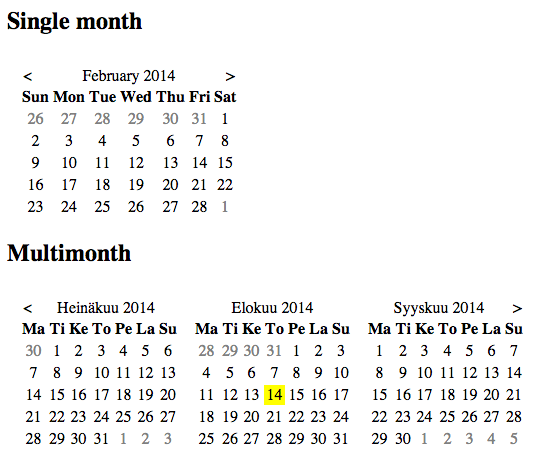
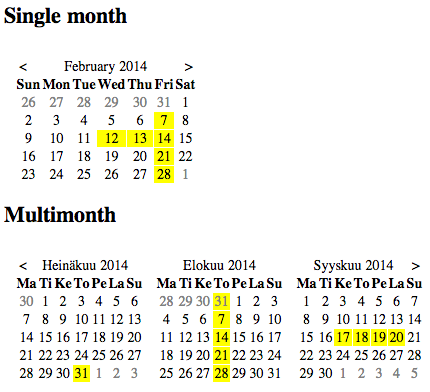
Added selection of dates by holding mouse down

diff --git a/dist/angular-simple-native-datepicker.min.js b/dist/angular-simple-native-datepicker.min.js
@@ -1,1 +1,1 @@
-angular.module("angular-simple-native-datepicker",[]).service("CollectionUtil",function(){"use strict";this.filter=function(e,t){for(var n=[],a=0;a<e.length;a++)t(e[a])&&n.push(e[a]);return n},this.map=function(e,t){for(var n=[],a=0;a<e.length;a++)n.push(t(e[a]));return n},this.foreach=function(e,t){for(var n=0;n<e.length;n++)t(e[n])},this.toSubArrays=function(e,t){for(var n=[],a=0;a<e.length;a+=t)n.push(e.slice(a,a+t));return n},this.toObjects=function(e,t){return this.map(e,function(e){var n={};return n[t]=e,n})},this.contains=function(e,t,n){for(var a=e.length-1;a>=0;a--)if(n(e[a],t))return!0;return!1},this.remove=function(e,t,n){for(var a=e.length-1;a>=0;a--)n(e[a],t)&&e.splice(a,a+1);return!1}}).service("CalendarUtil",["CollectionUtil",function(e){"use strict";var t=function(e){var t=new Date(e.getTime());return t.setDate(t.getDate()),t},n=function(e,t){return e.setDate(e.getDate()+t),e};this.currentYearMonth=function(){var e=new Date;return{year:e.getFullYear(),month:e.getMonth()}},this.rollYearMonth=function(e,t){var n=new Date(e.year,e.month,1);return n.setMonth(n.getMonth()+t),e.year=n.getFullYear(),e.month=n.getMonth(),e};var a=function(e){if(0>e||e>6)throw Error("illegal day number "+e+", expecting a day between 0 and 6")},r=function(e,r,o){a(r);for(var i=(e.getDay(),t(e));i.getDay()!=r;)n(i,o);return i};this.rollMutableDate=n,this.reverseToDayNumber=function(e,t){return r(e,t,-1)},this.forwardToDayNumber=function(e,t){return r(e,t,1)},this.dateRangeBetween=function(e,n){if(e.getTime()>n.getTime())throw"start after end";for(var a=[],r=t(e);r.getTime()<=n.getTime();)a.push(t(r)),this.rollMutableDate(r,1);return a};var o=function(e){a(e);var t=e+6;return t>6?t-7:t};this.equalYearMonth=function(e,t){return e.getFullYear()===t.getFullYear()&&e.getMonth()===t.getMonth()},this.equalDateWithoutTime=function(e,t){return e.getFullYear()===t.getFullYear()&&e.getMonth()===t.getMonth()&&e.getDate()===t.getDate()},this.getMonth=function(t,n,a,r){var i=this.reverseToDayNumber(new Date(t,n,1),a),u=this.rollMutableDate(new Date(t,n+1,1),-1),s=this.forwardToDayNumber(u,o(a)),h=e.toObjects(this.dateRangeBetween(i,s),"date"),l=this,c=e.filter(h,function(t){return e.contains(r,t.date,l.equalDateWithoutTime)});e.foreach(c,function(e){e.selected=!0});var d=new Date(t,n,1),f=e.filter(h,function(e){return!l.equalYearMonth(d,e.date)});return e.foreach(f,function(e){e.outOfMonth=!0}),{weeks:e.toObjects(e.toSubArrays(h,7),"days")}}}]).directive("simpleNativeDatepicker",["CalendarUtil","CollectionUtil",function(e,t){"use strict";return{restrict:"A",template:'<div class="simpleNativeDatepicker"><span ng-show="showPrevMonthBtn" ng-click="moveMonth(-1)" class="prevMonthBtn">&lt;</span><span class="header">{{monthStr}} {{year}}</span><span ng-show="showNextMonthBtn" ng-click="moveMonth(1)" class="nextMonthBtn">&gt;</span><table><thead><tr><th ng-repeat="dayName in orderedDayNames">{{dayName}}</th></tr></thead><tbody><tr ng-repeat="week in calMonth.weeks"><td ng-class="{outOfMonth: day.outOfMonth, selected: day.selected}" ng-click="selectDate(day)" ng-repeat="day in week.days">{{day.date.getDate()}}</td></tr></tbody></table></div>',scope:{year:"=",month:"=",versionNumber:"=",selectedDates:"=",options:"="},link:function(n){var a={firstDayOfWeek:1,dayNames:["Su","Ma","Ti","Ke","To","Pe","La"],monthNames:["Tammikuu","Helmikuu","Maaliskuu","Huhtikuu","Toukokuu","Kesäkuu","Heinäkuu","Elokuu","Syyskuu","Lokakuu","Marraskuu","Joulukuu"],daySelected:function(e){console.log("selected",e)},dayUnSelected:function(e){console.log("unselected",e)},showPrevMonthBtn:!0,showNextMonthBtn:!0,moveMonth:function(t){var a={year:n.year,month:n.month};e.rollYearMonth(a,t),n.year=a.year,n.month=a.month,n.versionNumber+=1}},r=angular.extend(a,n.options);n.orderedDayNames=r.dayNames.slice(r.firstDayOfWeek).concat(r.dayNames.slice(0,r.firstDayOfWeek)),n.selectDate=function(a){t.contains(n.selectedDates,a.date,e.equalDateWithoutTime)?(t.remove(n.selectedDates,a.date,e.equalDateWithoutTime),r.dayUnSelected(a.date)):(n.selectedDates.push(a.date),r.daySelected(a.date)),n.versionNumber+=1},n.moveMonth=r.moveMonth,n.showPrevMonthBtn=r.showPrevMonthBtn,n.showNextMonthBtn=r.showNextMonthBtn;var o=function(t,a,o){n.calMonth=[],n.calMonth=e.getMonth(t,a,r.firstDayOfWeek,o),n.monthStr=r.monthNames[a]};n.$watch("versionNumber",function(e){e&&o(n.year,n.month,n.selectedDates)})}}}]);
+angular.module("angular-simple-native-datepicker",[]).service("CollectionUtil",function(){"use strict";this.filter=function(e,t){for(var n=[],o=0;o<e.length;o++)t(e[o])&&n.push(e[o]);return n},this.map=function(e,t){for(var n=[],o=0;o<e.length;o++)n.push(t(e[o]));return n},this.foreach=function(e,t){for(var n=0;n<e.length;n++)t(e[n])},this.toSubArrays=function(e,t){for(var n=[],o=0;o<e.length;o+=t)n.push(e.slice(o,o+t));return n},this.toObjects=function(e,t){return this.map(e,function(e){var n={};return n[t]=e,n})},this.contains=function(e,t,n){for(var o=e.length-1;o>=0;o--)if(n(e[o],t))return!0;return!1},this.remove=function(e,t,n){for(var o=e.length-1;o>=0;o--)n(e[o],t)&&e.splice(o,o+1);return!1}}).service("CalendarUtil",["CollectionUtil",function(e){"use strict";var t=function(e){var t=new Date(e.getTime());return t.setDate(t.getDate()),t},n=function(e,t){return e.setDate(e.getDate()+t),e};this.currentYearMonth=function(){var e=new Date;return{year:e.getFullYear(),month:e.getMonth()}},this.rollYearMonth=function(e,t){var n=new Date(e.year,e.month,1);return n.setMonth(n.getMonth()+t),e.year=n.getFullYear(),e.month=n.getMonth(),e};var o=function(e){if(0>e||e>6)throw Error("illegal day number "+e+", expecting a day between 0 and 6")},a=function(e,a,r){o(a);for(var u=(e.getDay(),t(e));u.getDay()!=a;)n(u,r);return u};this.rollMutableDate=n,this.reverseToDayNumber=function(e,t){return a(e,t,-1)},this.forwardToDayNumber=function(e,t){return a(e,t,1)},this.dateRangeBetween=function(e,n){if(e.getTime()>n.getTime())throw"start after end";for(var o=[],a=t(e);a.getTime()<=n.getTime();)o.push(t(a)),this.rollMutableDate(a,1);return o};var r=function(e){o(e);var t=e+6;return t>6?t-7:t};this.equalYearMonth=function(e,t){return e.getFullYear()===t.getFullYear()&&e.getMonth()===t.getMonth()},this.equalDateWithoutTime=function(e,t){return e.getFullYear()===t.getFullYear()&&e.getMonth()===t.getMonth()&&e.getDate()===t.getDate()},this.getMonth=function(t,n,o,a){var u=this.reverseToDayNumber(new Date(t,n,1),o),s=this.rollMutableDate(new Date(t,n+1,1),-1),i=this.forwardToDayNumber(s,r(o)),h=e.toObjects(this.dateRangeBetween(u,i),"date"),l=this,c=e.filter(h,function(t){return e.contains(a,t.date,l.equalDateWithoutTime)});e.foreach(c,function(e){e.selected=!0});var f=new Date(t,n,1),d=e.filter(h,function(e){return!l.equalYearMonth(f,e.date)});return e.foreach(d,function(e){e.outOfMonth=!0}),{weeks:e.toObjects(e.toSubArrays(h,7),"days")}}}]).directive("simpleNativeDatepicker",["CalendarUtil","CollectionUtil",function(e,t){"use strict";return{restrict:"A",template:'<div class="simpleNativeDatepicker" ng-mouseleave="onMouseLeave()" ng-mouseup="onMouseUp()"><span ng-show="showPrevMonthBtn" ng-click="moveMonth(-1)" class="prevMonthBtn">&lt;</span><span class="header">{{monthStr}} {{year}}</span><span ng-show="showNextMonthBtn" ng-click="moveMonth(1)" class="nextMonthBtn">&gt;</span><table><thead><tr><th ng-repeat="dayName in orderedDayNames">{{dayName}}</th></tr></thead><tbody><tr ng-repeat="week in calMonth.weeks"><td ng-class="{outOfMonth: day.outOfMonth, selected: day.selected}" ng-mousedown="onMouseDown(day)" ng-mouseenter="onMouseEnter(day)" ng-repeat="day in week.days">{{day.date.getDate()}}</td></tr></tbody></table></div>',scope:{year:"=",month:"=",versionNumber:"=",selectedDates:"=",options:"="},link:function(n){var o={firstDayOfWeek:1,dayNames:["Su","Ma","Ti","Ke","To","Pe","La"],monthNames:["Tammikuu","Helmikuu","Maaliskuu","Huhtikuu","Toukokuu","Kesäkuu","Heinäkuu","Elokuu","Syyskuu","Lokakuu","Marraskuu","Joulukuu"],daySelected:function(e){console.log("selected",e)},dayUnSelected:function(e){console.log("unselected",e)},showPrevMonthBtn:!0,showNextMonthBtn:!0,moveMonth:function(t){var o={year:n.year,month:n.month};e.rollYearMonth(o,t),n.year=o.year,n.month=o.month,n.versionNumber+=1}},a=angular.extend(o,n.options);n.orderedDayNames=a.dayNames.slice(a.firstDayOfWeek).concat(a.dayNames.slice(0,a.firstDayOfWeek)),n.mouseDown=!1,n.onMouseLeave=function(){n.mouseDown=!1,n.versionNumber+=1},n.onMouseUp=function(){n.mouseDown=!1,n.versionNumber+=1},n.onMouseDown=function(e){n.mouseDown=!0,r(e)},n.onMouseEnter=function(e){n.mouseDown&&r(e)};var r=function(o){t.contains(n.selectedDates,o.date,e.equalDateWithoutTime)?(t.remove(n.selectedDates,o.date,e.equalDateWithoutTime),a.dayUnSelected(o.date)):(n.selectedDates.push(o.date),a.daySelected(o.date))};n.moveMonth=a.moveMonth,n.showPrevMonthBtn=a.showPrevMonthBtn,n.showNextMonthBtn=a.showNextMonthBtn;var u=function(t,o,r){n.calMonth=[],n.calMonth=e.getMonth(t,o,a.firstDayOfWeek,r),n.monthStr=a.monthNames[o]};n.$watch("versionNumber",function(e){e&&u(n.year,n.month,n.selectedDates)})}}}]);

diff --git a/dist/angular-simple-native-datepicker.annotated.js b/dist/angular-simple-native-datepicker.annotated.js
@@ -153,7 +153,7 @@ angular.module('angular-simple-native-datepicker', []).service('CollectionUtil',
     'use strict';
     return {
       restrict: 'A',
-      template: '<div class="simpleNativeDatepicker">' + '<span ng-show="showPrevMonthBtn" ng-click="moveMonth(-1)" class="prevMonthBtn">&lt;</span>' + '<span class="header">{{monthStr}} {{year}}</span>' + '<span ng-show="showNextMonthBtn" ng-click="moveMonth(1)" class="nextMonthBtn">&gt;</span>' + '<table>' + '<thead>' + '<tr>' + '<th ng-repeat="dayName in orderedDayNames">{{dayName}}</th>' + '</tr>' + '</thead>' + '<tbody>' + '<tr ng-repeat="week in calMonth.weeks">' + '<td ng-class="{outOfMonth: day.outOfMonth, selected: day.selected}" ng-click="selectDate(day)" ng-repeat="day in week.days">{{day.date.getDate()}}</td>' + '</tr>' + '</tbody>' + '</table>' + '</div>',
+      template: '<div class="simpleNativeDatepicker" ng-mouseleave="onMouseLeave()" ng-mouseup="onMouseUp()">' + '<span ng-show="showPrevMonthBtn" ng-click="moveMonth(-1)" class="prevMonthBtn">&lt;</span>' + '<span class="header">{{monthStr}} {{year}}</span>' + '<span ng-show="showNextMonthBtn" ng-click="moveMonth(1)" class="nextMonthBtn">&gt;</span>' + '<table>' + '<thead>' + '<tr>' + '<th ng-repeat="dayName in orderedDayNames">{{dayName}}</th>' + '</tr>' + '</thead>' + '<tbody>' + '<tr ng-repeat="week in calMonth.weeks">' + '<td ng-class="{outOfMonth: day.outOfMonth, selected: day.selected}" ng-mousedown="onMouseDown(day)" ng-mouseenter="onMouseEnter(day)" ng-repeat="day in week.days">{{day.date.getDate()}}</td>' + '</tr>' + '</tbody>' + '</table>' + '</div>',
       scope: {
         year: '=',
         month: '=',
@@ -208,7 +208,25 @@ angular.module('angular-simple-native-datepicker', []).service('CollectionUtil',
           };
         var options = angular.extend(defaultOptions, scope.options);
         scope.orderedDayNames = options.dayNames.slice(options.firstDayOfWeek).concat(options.dayNames.slice(0, options.firstDayOfWeek));
-        scope.selectDate = function (day) {
+        scope.mouseDown = false;
+        scope.onMouseLeave = function () {
+          scope.mouseDown = false;
+          scope.versionNumber += 1;  // refresh           
+        };
+        scope.onMouseUp = function () {
+          scope.mouseDown = false;
+          scope.versionNumber += 1;  // refresh
+        };
+        scope.onMouseDown = function (day) {
+          scope.mouseDown = true;
+          toggleDateSelection(day);
+        };
+        scope.onMouseEnter = function (day) {
+          if (scope.mouseDown) {
+            toggleDateSelection(day);
+          }
+        };
+        var toggleDateSelection = function (day) {
           if (cu.contains(scope.selectedDates, day.date, CalendarUtil.equalDateWithoutTime)) {
             cu.remove(scope.selectedDates, day.date, CalendarUtil.equalDateWithoutTime);
             options.dayUnSelected(day.date);
@@ -216,7 +234,6 @@ angular.module('angular-simple-native-datepicker', []).service('CollectionUtil',
             scope.selectedDates.push(day.date);
             options.daySelected(day.date);
           }
-          scope.versionNumber += 1;
         };
         scope.moveMonth = options.moveMonth;
         scope.showPrevMonthBtn = options.showPrevMonthBtn;

diff --git a/dist/angular-simple-native-datepicker.js b/dist/angular-simple-native-datepicker.js
@@ -182,7 +182,7 @@ angular.module('angular-simple-native-datepicker', [])
     return {
       restrict: 'A',
 
-      template: '<div class="simpleNativeDatepicker">' +
+      template: '<div class="simpleNativeDatepicker" ng-mouseleave="onMouseLeave()" ng-mouseup="onMouseUp()">' +
                     '<span ng-show="showPrevMonthBtn" ng-click="moveMonth(-1)" class="prevMonthBtn">&lt;</span>' +
                     '<span class="header">{{monthStr}} {{year}}</span>' +
                     '<span ng-show="showNextMonthBtn" ng-click="moveMonth(1)" class="nextMonthBtn">&gt;</span>' +
@@ -195,7 +195,7 @@ angular.module('angular-simple-native-datepicker', [])
 
                         '<tbody>' +
                             '<tr ng-repeat="week in calMonth.weeks">' +
-                                '<td ng-class="{outOfMonth: day.outOfMonth, selected: day.selected}" ng-click="selectDate(day)" ng-repeat="day in week.days">{{day.date.getDate()}}</td>' +
+                                '<td ng-class="{outOfMonth: day.outOfMonth, selected: day.selected}" ng-mousedown="onMouseDown(day)" ng-mouseenter="onMouseEnter(day)" ng-repeat="day in week.days">{{day.date.getDate()}}</td>' +
                             '</tr>' +
                         '</tbody>' +
                     '</table>' +
@@ -233,7 +233,30 @@ angular.module('angular-simple-native-datepicker', [])
         scope.orderedDayNames = options.dayNames.slice(options.firstDayOfWeek).concat( 
             options.dayNames.slice(0, options.firstDayOfWeek));
 
-        scope.selectDate = function(day) {
+        scope.mouseDown = false;
+
+        scope.onMouseLeave = function() {
+            scope.mouseDown = false; 
+            scope.versionNumber += 1; // refresh           
+        };
+
+        scope.onMouseUp = function() {
+            scope.mouseDown = false;
+            scope.versionNumber += 1; // refresh
+        };
+
+        scope.onMouseDown = function(day) {
+            scope.mouseDown = true;
+            toggleDateSelection(day);
+        };
+
+        scope.onMouseEnter = function(day) {
+            if ( scope.mouseDown ) {
+                toggleDateSelection(day);            
+            }
+        };
+
+        var toggleDateSelection = function(day) {
             if ( cu.contains(scope.selectedDates, day.date, CalendarUtil.equalDateWithoutTime) ) {
                 cu.remove(scope.selectedDates, day.date, CalendarUtil.equalDateWithoutTime);
                 options.dayUnSelected(day.date);
@@ -242,7 +265,6 @@ angular.module('angular-simple-native-datepicker', [])
                 scope.selectedDates.push(day.date);
                 options.daySelected(day.date);
             }
-            scope.versionNumber += 1;
         };
 
         scope.moveMonth = options.moveMonth;

diff --git a/src/angular-simple-native-datepicker.js b/src/angular-simple-native-datepicker.js
@@ -182,7 +182,7 @@ angular.module('angular-simple-native-datepicker', [])
     return {
       restrict: 'A',
 
-      template: '<div class="simpleNativeDatepicker">' +
+      template: '<div class="simpleNativeDatepicker" ng-mouseleave="onMouseLeave()" ng-mouseup="onMouseUp()">' +
                     '<span ng-show="showPrevMonthBtn" ng-click="moveMonth(-1)" class="prevMonthBtn">&lt;</span>' +
                     '<span class="header">{{monthStr}} {{year}}</span>' +
                     '<span ng-show="showNextMonthBtn" ng-click="moveMonth(1)" class="nextMonthBtn">&gt;</span>' +
@@ -195,7 +195,7 @@ angular.module('angular-simple-native-datepicker', [])
 
                         '<tbody>' +
                             '<tr ng-repeat="week in calMonth.weeks">' +
-                                '<td ng-class="{outOfMonth: day.outOfMonth, selected: day.selected}" ng-click="selectDate(day)" ng-repeat="day in week.days">{{day.date.getDate()}}</td>' +
+                                '<td ng-class="{outOfMonth: day.outOfMonth, selected: day.selected}" ng-mousedown="onMouseDown(day)" ng-mouseenter="onMouseEnter(day)" ng-repeat="day in week.days">{{day.date.getDate()}}</td>' +
                             '</tr>' +
                         '</tbody>' +
                     '</table>' +
@@ -233,7 +233,30 @@ angular.module('angular-simple-native-datepicker', [])
         scope.orderedDayNames = options.dayNames.slice(options.firstDayOfWeek).concat( 
             options.dayNames.slice(0, options.firstDayOfWeek));
 
-        scope.selectDate = function(day) {
+        scope.mouseDown = false;
+
+        scope.onMouseLeave = function() {
+            scope.mouseDown = false; 
+            scope.versionNumber += 1; // refresh           
+        };
+
+        scope.onMouseUp = function() {
+            scope.mouseDown = false;
+            scope.versionNumber += 1; // refresh
+        };
+
+        scope.onMouseDown = function(day) {
+            scope.mouseDown = true;
+            toggleDateSelection(day);
+        };
+
+        scope.onMouseEnter = function(day) {
+            if ( scope.mouseDown ) {
+                toggleDateSelection(day);            
+            }
+        };
+
+        var toggleDateSelection = function(day) {
             if ( cu.contains(scope.selectedDates, day.date, CalendarUtil.equalDateWithoutTime) ) {
                 cu.remove(scope.selectedDates, day.date, CalendarUtil.equalDateWithoutTime);
                 options.dayUnSelected(day.date);
@@ -242,7 +265,6 @@ angular.module('angular-simple-native-datepicker', [])
                 scope.selectedDates.push(day.date);
                 options.daySelected(day.date);
             }
-            scope.versionNumber += 1;
         };
 
         scope.moveMonth = options.moveMonth;

diff --git a/dist/angular-simple-native-datepicker.min.css b/dist/angular-simple-native-datepicker.min.css
@@ -1,1 +1,1 @@
-.simpleNativeDatepicker{display:inline-block;text-align:center}.simpleNativeDatepicker td{text-align:center;cursor:pointer}.simpleNativeDatepicker .selected{background-color:#ff0}.simpleNativeDatepicker .outOfMonth{color:gray}.simpleNativeDatepicker .prevMonthBtn{float:left;margin-left:4px;cursor:pointer}.simpleNativeDatepicker .nextMonthBtn{float:right;margin-right:4px;cursor:pointer}
+.simpleNativeDatepicker{display:inline-block;text-align:center;-webkit-touch-callout:none;-webkit-user-select:none;-khtml-user-select:none;-moz-user-select:none;-ms-user-select:none;user-select:none}.simpleNativeDatepicker td{text-align:center;cursor:pointer}.simpleNativeDatepicker .selected{background-color:#ff0}.simpleNativeDatepicker .outOfMonth{color:gray}.simpleNativeDatepicker .prevMonthBtn{float:left;margin-left:4px;cursor:pointer}.simpleNativeDatepicker .nextMonthBtn{float:right;margin-right:4px;cursor:pointer}

diff --git a/demo/app/index.html b/demo/app/index.html
@@ -9,8 +9,8 @@
 
     <script src="//ajax.googleapis.com/ajax/libs/angularjs/1.2.19/angular.min.js"></script>
 
-    <script type="text/javascript" src="../../src/angular-simple-native-datepicker.js"></script>
-    <link rel="stylesheet" type="text/css" href="../../src/angular-simple-native-datepicker.css"></link>
+    <script type="text/javascript" src="../../dist/angular-simple-native-datepicker.js"></script>
+    <link rel="stylesheet" type="text/css" href="../../dist/angular-simple-native-datepicker.css"></link>
     
     <script type="text/javascript" src="demoapp.js"></script> 
 

diff --git a/dist/angular-simple-native-datepicker.css b/dist/angular-simple-native-datepicker.css
@@ -1,6 +1,12 @@
 .simpleNativeDatepicker {
     display: inline-block;
     text-align: center;
+    -webkit-touch-callout: none;
+    -webkit-user-select: none;
+    -khtml-user-select: none;
+    -moz-user-select: none;
+    -ms-user-select: none;
+    user-select: none;
 }
 
 .simpleNativeDatepicker td {

diff --git a/src/angular-simple-native-datepicker.css b/src/angular-simple-native-datepicker.css
@@ -1,6 +1,12 @@
 .simpleNativeDatepicker {
     display: inline-block;
     text-align: center;
+    -webkit-touch-callout: none;
+    -webkit-user-select: none;
+    -khtml-user-select: none;
+    -moz-user-select: none;
+    -ms-user-select: none;
+    user-select: none;
 }
 
 .simpleNativeDatepicker td {

diff --git a/README.md b/README.md
@@ -1,10 +1,11 @@
 angular-simple-native-datepicker
 ================================
 
-A simple angular directive to pick dates from one or more months.
+An AngularJS directive to pick dates from one or more months.
 - Depends only on AngularJS
 - Easy to show multiple months
-- Easy to pick multiple dates 
+- Easy to pick multiple dates
+- Supports selecting multiple dates with a "box-selection". Just click and drag over the dates to select.
 
 # Demo
 
